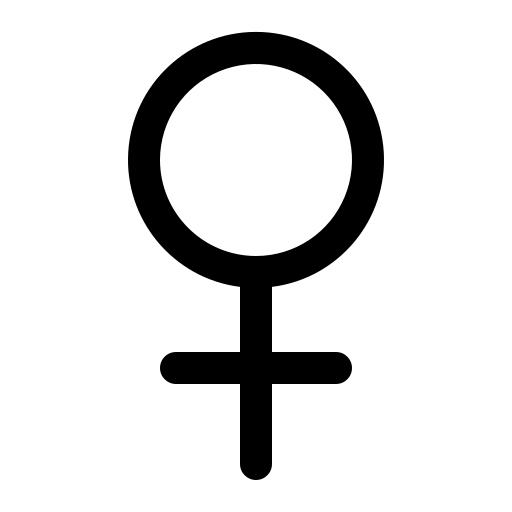
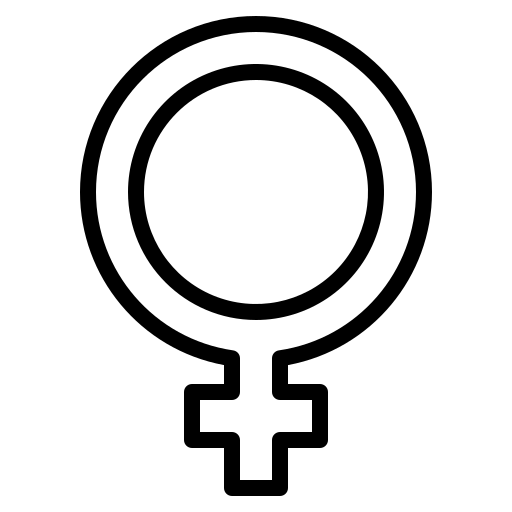
feat/편의시설: 아이콘 수정 필요

Changed region(s): [[0.1562, 0.0312, 0.8438, 0.9688]]

diff --git a/front-end/src/pages/during_match/Facilities.jsx b/front-end/src/pages/during_match/Facilities.jsx
@@ -37,6 +37,13 @@ import OJIK_img from './img/food/5직떡볶이.jpg'
 
 //////
 import female_logo from './img/facility/female-sign.png'
+import male_logo from './img/facility/male-sign.png'
+import disabled_female from './img/facility/disabled-female.png'
+import disabled_male from './img/facility/disabled-male.png'
+import camera from './img/facility/camera.png'
+import baby from './img/facility/baby-bottle.png'
+import smoking from './img/facility/smoking.png'
+import trash from './img/facility/trash-can.png'
 
 import axios from 'axios';
 import './styles/Facilities.css';
@@ -558,6 +565,9 @@ export default function Facilities() {
             onClick={selectStore}
           >
             <div className='facility-scroll-body'>
+              <div className='facility-icon-item'>
+                <img className='facility-icon' src={female_logo} alt="" />
+              </div>
               <div className='facility-title-item'>
                 <span className='facility-title font'>여자화장실</span>
               </div>
@@ -574,6 +584,9 @@ export default function Facilities() {
             onClick={selectStore}
           >
             <div className='facility-scroll-body'>
+              <div className='facility-icon-item'>
+                <img className='facility-icon' src={male_logo} alt="" />
+              </div>
               <div className='facility-title-item'>
                 <span className='facility-title font'>남자화장실</span>
               </div>
@@ -589,6 +602,9 @@ export default function Facilities() {
             onClick={selectStore}
           >
             <div className='facility-scroll-body'>
+              <div className='facility-icon-item'>
+                <img className='facility-icon' src={disabled_female} alt="" />
+              </div>
               <div className='facility-title-item'>
                 <span className='facility-title font'>여자장애인화장실</span>
               </div>
@@ -604,6 +620,9 @@ export default function Facilities() {
             onClick={selectStore}
           >
             <div className='facility-scroll-body'>
+              <div className='facility-icon-item'>
+                <img className='facility-icon' src={disabled_male} alt="" />
+              </div>
               <div className='facility-title-item'>
                 <span className='facility-title font'>남자장애인화장실</span>
               </div>
@@ -619,6 +638,9 @@ export default function Facilities() {
             onClick={selectStore}
           >
             <div className='facility-scroll-body'>
+              <div className='facility-icon-item'>
+                <img className='facility-icon' src={camera} alt="" />
+              </div>
               <div className='facility-title-item'>
                 <span className='facility-title font'>블루샷</span>
               </div>
@@ -634,6 +656,9 @@ export default function Facilities() {
             onClick={selectStore}
           >
             <div className='facility-scroll-body'>
+            <div className='facility-icon-item'>
+                <img className='facility-icon' src={baby} alt="" />
+              </div>
               <div className='facility-title-item'>
                 <span className='facility-title font'>수유실</span>
               </div>
@@ -649,6 +674,9 @@ export default function Facilities() {
             onClick={selectStore}
           >
             <div className='facility-scroll-body'>
+            <div className='facility-icon-item'>
+                <img className='facility-icon' src={smoking} alt="" />
+              </div>
               <div className='facility-title-item'>
                 <span className='facility-title font'>흡연실</span>
               </div>
@@ -664,6 +692,9 @@ export default function Facilities() {
             onClick={selectStore}
           >
             <div className='facility-scroll-body'>
+            <div className='facility-icon-item'>
+                <img className='facility-icon' src={trash} alt="" />
+              </div>
               <div className='facility-title-item'>
                 <span className='facility-title font'>쓰레기통</span>
               </div>

diff --git a/front-end/src/pages/during_match/styles/Facilities.css b/front-end/src/pages/during_match/styles/Facilities.css
@@ -82,11 +82,13 @@
 .facility-list {
   display: flex;
   justify-content: center;
+  align-items: center;
   flex-wrap: wrap;
   overflow: scroll;
   border-radius: 20px;
-  border: 1px solid rgb(208, 208, 208);
+  /* border: 1px solid rgb(208, 208, 208); */
   width: 85vw;
+  height: 60vh;
 }
 
 .facility-hide {
@@ -184,33 +186,49 @@
 
 .facilities-facility{
   align-items: center;
-  width: 75vw;
+  width: 80vw;
   height: 6vh;
   /* border: 1px solid black; */
   /* border-radius: 20px; */
-  border-bottom: 1px solid rgb(203, 203, 203);
-  /* margin: 5px 0px; */
+  /* border-bottom: 1px solid rgb(203, 203, 203); */
   white-space: normal;
   overflow-x: scroll;
+  border: 10vh;
 }
 
 .facility-scroll-body{
   display: flex;
   /* border: 1px solid red; */
-  width: 115vw;
+  border-bottom: 1px solid  rgb(203, 203, 203);
+  width: 108vw;
   height: 6vh;
+}
+
+.facility-icon-item{
+  /* border: 1px solid teal; */
+  width: 10vw;
+  height: 6vh;
+  display: flex;
+  align-items: center;
+  justify-content: center;
+}
+
+.facility-icon {
+  width: 100%;
+  max-height: 100%;
+  object-fit: cover;
 }
 
 .facility-title-item{
   /* border: 1px solid orange; */
-  width: 85vw;
+  width: 66vw;
   display: flex;
   align-items: center;
-  padding-left: 2.5vw;
+  padding-left: 2vw;
 }
 
 .facility-title {
-  font-size: 5vw;
+  font-size: 4.5vw;
 }
 
 .facility-body {
@@ -220,9 +238,10 @@
 
 .facility-body-button{
   background: #0065b3b4;
-  /* border: 1px solid #000; */
   color: white;
+  font-size: 4vw;
   border: none;
   width: 15vw;
   height: 100%;
+  margin: 0.1vw;
 }
